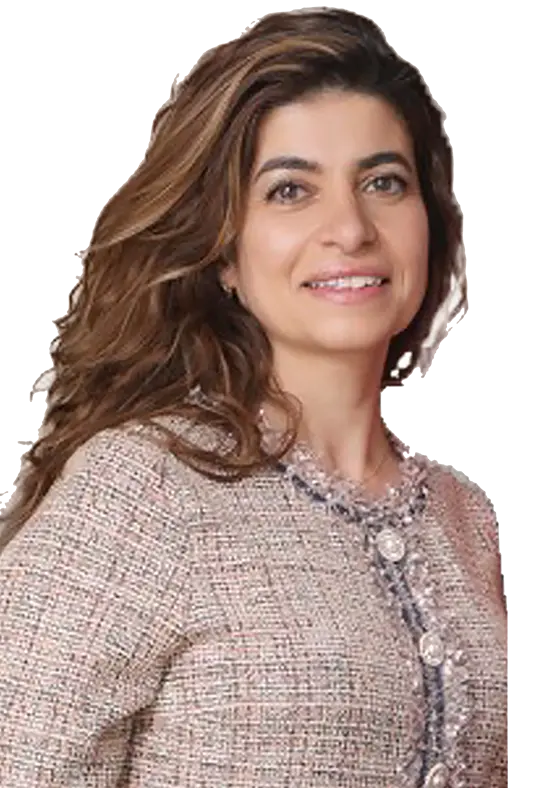
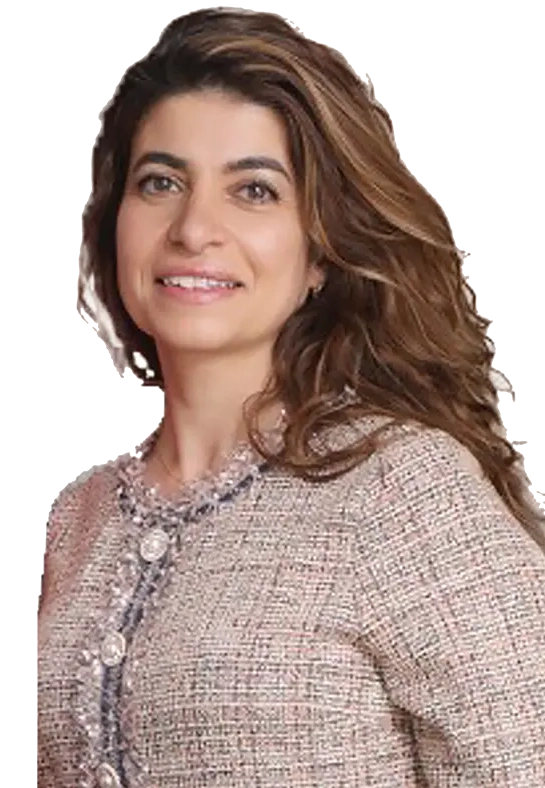
Flipped Hiba and Tarek's images, increased the gradient on the bottom of their images, and moved the meet the founders section into a component of its own

diff --git a/src/pages/About.jsx b/src/pages/About.jsx
@@ -13,7 +13,7 @@ import ValuesVideo from '../assets/video/mission-vision-values/values.mp4';
 import ValuesImg from '../assets/img/mission-vision-values/values.webp';
 import PerformanceImg from '../assets/img/about/para-2.webp';
 import Logo from '../assets/img/logo.webp';
-import { teamData } from '../data/teamData';
+import MeetTheFounders from '../components/sections/MeetTheFounders';
 
 const About = () => {
   // Preload critical images for better LCP
@@ -112,6 +112,8 @@ const About = () => {
         backgroundImage={PhilosophyBg}
       />
 
+      <MeetTheFounders />
+
       <AboutContent
         // title="Driving Purpose Forward"
         title="Mission"
@@ -171,124 +173,6 @@ const About = () => {
         flipped={false}
         sectionId="values"
       />
-
-      {/* Meet the Founders Section */}
-      <section className="pt-20 px-0" id="meet">
-        <div className="max-w-[90%] w-full mx-auto">
-          <div className="text-center mb-16">
-            <h2 className="text-6xl font-bold text-primary dark:text-neutral mb-4">
-              Meet the Founders
-            </h2>
-          </div>
-
-          {/* Team Members */}
-          {teamData.map((member, index) => (
-            <div
-              key={member.id}
-              className={`flex flex-row items-center gap-10 px-4 mx-auto pt-10 ${
-                index % 2 !== 0 ? 'p-0' : 'pt-20'
-              } ${
-                index % 2 === 0 ? ' bg-white mb-16 p-4' : 'bg-white'
-              } rounded-2xl `}
-            >
-              {/* Text Content - Position changes based on flipped property */}
-              <div
-                className={`flex flex-col w-1/2 ${
-                  member.flipped ? 'order-2' : 'order-1'
-                }`}
-              >
-                <h3 className="text-5xl font-bold font-poppins capitalize text-secondary dark:text-neutral mb-6">
-                  {member.subtitle}
-                </h3>
-                <h1 className="text-xl font-normal text-primary font-sans dark:text-neutral mb-6">
-                  {Array.isArray(member.description) &&
-                    member.description.map((paragraph, index) => (
-                      <p key={index} className={index === 0 ? '' : 'mt-3'}>
-                        {paragraph}
-                      </p>
-                    ))}
-
-                  {/* Name and role */}
-                  <p className="mt-6">— {member.name}</p>
-                  {Array.isArray(member.role) ? (
-                    member.role.map((role, idx) => <p key={idx}>{role}</p>)
-                  ) : (
-                    <p>{member.role}</p>
-                  )}
-                </h1>
-              </div>
-
-              {/* Image Section - Position changes based on flipped property */}
-              <div
-                className={`w-1/2 ${member.flipped ? 'order-1' : 'order-2'}`}
-              >
-                <div className="relative h-fit overflow-hidden rounded-lg flex justify-center items-center">
-                  <img
-                    src={member.image}
-                    alt={member.name}
-                    className="w-2/3 object-cover"
-                    style={{
-                      filter: 'blur(1px)',
-                      maskImage:
-                        'radial-gradient(ellipse 70% 70% at center, black 40%, transparent 70%)',
-                      WebkitMaskImage:
-                        'radial-gradient(ellipse 80% 80% at center, black 60%, transparent 70%)',
-                    }}
-                  />
-                  {/* Social Media Buttons */}
-                  <div
-                    className={`absolute top-1/2 transform -translate-y-[0%] space-y-3 ${
-                      member.flipped ? 'left-[10%]' : 'right-0 -translate-x-1/2'
-                    }`}
-                  >
-                    {/* Instagram Button */}
-                    <div className="w-36 h-12 bg-gradient-to-br from-purple-500 to-pink-500 rounded-lg flex items-center justify-start cursor-pointer hover:scale-105 transition-transform shadow-lg px-4">
-                      <svg
-                        className="w-6 h-6 text-white mr-3"
-                        fill="currentColor"
-                        viewBox="0 0 24 24"
-                      >
-                        <path d="M12 2.163c3.204 0 3.584.012 4.85.07 3.252.148 4.771 1.691 4.919 4.919.058 1.265.069 1.645.069 4.849 0 3.205-.012 3.584-.069 4.849-.149 3.225-1.664 4.771-4.919 4.919-1.266.058-1.644.07-4.85.07-3.204 0-3.584-.012-4.849-.07-3.26-.149-4.771-1.699-4.919-4.92-.058-1.265-.07-1.644-.07-4.849 0-3.204.013-3.583.07-4.849.149-3.227 1.664-4.771 4.919-4.919 1.266-.057 1.645-.069 4.849-.069zm0-2.163c-3.259 0-3.667.014-4.947.072-4.358.2-6.78 2.618-6.98 6.98-.059 1.281-.073 1.689-.073 4.948 0 3.259.014 3.668.072 4.948.2 4.358 2.618 6.78 6.98 6.98 1.281.058 1.689.072 4.948.072 3.259 0 3.668-.014 4.948-.072 4.354-.2 6.782-2.618 6.979-6.98.059-1.28.073-1.689.073-4.948 0-3.259-.014-3.667-.072-4.947-.196-4.354-2.617-6.78-6.979-6.98-1.281-.059-1.69-.073-4.949-.073zm0 5.838c-3.403 0-6.162 2.759-6.162 6.162s2.759 6.163 6.162 6.163 6.162-2.759 6.162-6.163c0-3.403-2.759-6.162-6.162-6.162zm0 10.162c-2.209 0-4-1.79-4-4 0-2.209 1.791-4 4-4s4 1.791 4 4c0 2.21-1.791 4-4 4zm6.406-11.845c-.796 0-1.441.645-1.441 1.44s.645 1.44 1.441 1.44c.795 0 1.439-.645 1.439-1.44s-.644-1.44-1.439-1.44z" />
-                      </svg>
-                      <span className="text-white font-semibold text-sm">
-                        {member.socialMedia.instagram}
-                      </span>
-                    </div>
-
-                    {/* Facebook Button */}
-                    <div className="w-36 h-12 bg-blue-600 rounded-lg flex items-center justify-start cursor-pointer hover:scale-105 transition-transform shadow-lg px-4">
-                      <svg
-                        className="w-6 h-6 text-white mr-3"
-                        fill="currentColor"
-                        viewBox="0 0 24 24"
-                      >
-                        <path d="M24 12.073c0-6.627-5.373-12-12-12s-12 5.373-12 12c0 5.99 4.388 10.954 10.125 11.854v-8.385H7.078v-3.47h3.047V9.43c0-3.007 1.792-4.669 4.533-4.669 1.312 0 2.686.235 2.686.235v2.953H15.83c-1.491 0-1.956.925-1.956 1.874v2.25h3.328l-.532 3.47h-2.796v8.385C19.612 23.027 24 18.062 24 12.073z" />
-                      </svg>
-                      <span className="text-white font-semibold text-sm">
-                        {member.socialMedia.facebook}
-                      </span>
-                    </div>
-
-                    {/* LinkedIn Button */}
-                    <div className="w-36 h-12 bg-blue-700 rounded-lg flex items-center justify-start cursor-pointer hover:scale-105 transition-transform shadow-lg px-4">
-                      <svg
-                        className="w-6 h-6 text-white mr-3"
-                        fill="currentColor"
-                        viewBox="0 0 24 24"
-                      >
-                        <path d="M20.447 20.452h-3.554v-5.569c0-1.328-.027-3.047-1.032-3.047-1.032 0-1.26 1.317-1.26 3.031v5.585h-3.554v-11h3.414v1.527h.046c.5-.9 1.699-1.854 3.499-1.854 3.757 0 4.445 2.19 4.445 5.47v6.286zM5.337 7.433c-1.144 0-2.063-.926-2.063-2.065 0-1.138.92-2.063 2.063-2.063 1.14 0 2.064.925 2.064 2.063 0 1.139-.925 2.065-2.064 2.065zm1.782 13.019H3.555V9h3.564v11.452zM22.225 0H1.771C.792 0 0 .774 0 1.729v20.542C0 23.227.792 24 1.771 24h20.451C23.2 24 24 23.227 24 22.271V1.729C24 .774 23.2 0 22.222 0h.003z" />
-                      </svg>
-                      <span className="text-white font-semibold text-sm">
-                        {member.socialMedia.linkedin}
-                      </span>
-                    </div>
-                  </div>
-                </div>
-              </div>
-            </div>
-          ))}
-        </div>
-      </section>
 
       {/* Call to Action Section */}
       <div className="w-full px-4 text-center py-20">

diff --git a/src/components/sections/MeetTheFounders.jsx b/src/components/sections/MeetTheFounders.jsx
@@ -1,0 +1,123 @@
+import { teamData } from '../../data/teamData';
+
+const MeetTheFounders = () => {
+  return (
+    <section className="pt-20 px-0" id="meet">
+      <div className="max-w-[90%] w-full mx-auto">
+        <div className="text-center mb-16">
+          <h2 className="text-6xl font-bold text-primary dark:text-neutral mb-4">
+            Meet the Founders
+          </h2>
+        </div>
+
+        {/* Team Members */}
+        {teamData.map((member, index) => (
+          <div
+            key={member.id}
+            className={`flex flex-row items-center gap-10 px-4 mx-auto pt-10 ${
+              index % 2 !== 0 ? 'p-0' : 'pt-20'
+            } ${
+              index % 2 === 0 ? ' bg-white mb-16 p-4' : 'bg-white'
+            } rounded-2xl `}
+          >
+            {/* Text Content - Position changes based on flipped property */}
+            <div
+              className={`flex flex-col w-1/2 ${
+                member.flipped ? 'order-2' : 'order-1'
+              }`}
+            >
+              <h3 className="text-5xl font-bold font-poppins capitalize text-secondary dark:text-neutral mb-6">
+                {member.subtitle}
+              </h3>
+              <h1 className="text-xl font-normal text-primary font-sans dark:text-neutral mb-6">
+                {Array.isArray(member.description) &&
+                  member.description.map((paragraph, index) => (
+                    <p key={index} className={index === 0 ? '' : 'mt-3'}>
+                      {paragraph}
+                    </p>
+                  ))}
+
+                {/* Name and role */}
+                <p className="mt-6">— {member.name}</p>
+                {Array.isArray(member.role) ? (
+                  member.role.map((role, idx) => <p key={idx}>{role}</p>)
+                ) : (
+                  <p>{member.role}</p>
+                )}
+              </h1>
+            </div>
+
+            {/* Image Section - Position changes based on flipped property */}
+            <div className={`w-1/2 ${member.flipped ? 'order-1' : 'order-2'}`}>
+              <div className="relative h-fit overflow-hidden rounded-lg flex justify-center items-center">
+                <img
+                  src={member.image}
+                  alt={member.name}
+                  className="w-2/3 object-cover"
+                  style={{
+                    WebkitMaskImage: `
+                      radial-gradient(ellipse 80% 80% at center, black 60%, transparent 70%),
+                      linear-gradient(to bottom, black 90%, transparent 100%)
+                    `,
+                    WebkitMaskComposite: 'destination-in', // keeps the intersection
+                    maskComposite: 'intersect', // for standard syntax
+                  }}
+                />
+                {/* Social Media Buttons */}
+                <div
+                  className={`absolute top-1/2 transform -translate-y-[0%] space-y-3 ${
+                    member.flipped ? 'left-[10%]' : 'right-0 -translate-x-1/2'
+                  }`}
+                >
+                  {/* Instagram Button */}
+                  <div className="w-36 h-12 bg-gradient-to-br from-purple-500 to-pink-500 rounded-lg flex items-center justify-start cursor-pointer hover:scale-105 transition-transform shadow-lg px-4">
+                    <svg
+                      className="w-6 h-6 text-white mr-3"
+                      fill="currentColor"
+                      viewBox="0 0 24 24"
+                    >
+                      <path d="M12 2.163c3.204 0 3.584.012 4.85.07 3.252.148 4.771 1.691 4.919 4.919.058 1.265.069 1.645.069 4.849 0 3.205-.012 3.584-.069 4.849-.149 3.225-1.664 4.771-4.919 4.919-1.266.058-1.644.07-4.85.07-3.204 0-3.584-.012-4.849-.07-3.26-.149-4.771-1.699-4.919-4.92-.058-1.265-.07-1.644-.07-4.849 0-3.204.013-3.583.07-4.849.149-3.227 1.664-4.771 4.919-4.919 1.266-.057 1.645-.069 4.849-.069zm0-2.163c-3.259 0-3.667.014-4.947.072-4.358.2-6.78 2.618-6.98 6.98-.059 1.281-.073 1.689-.073 4.948 0 3.259.014 3.668.072 4.948.2 4.358 2.618 6.78 6.98 6.98 1.281.058 1.689.072 4.948.072 3.259 0 3.668-.014 4.948-.072 4.354-.2 6.782-2.618 6.979-6.98.059-1.28.073-1.689.073-4.948 0-3.259-.014-3.667-.072-4.947-.196-4.354-2.617-6.78-6.979-6.98-1.281-.059-1.69-.073-4.949-.073zm0 5.838c-3.403 0-6.162 2.759-6.162 6.162s2.759 6.163 6.162 6.163 6.162-2.759 6.162-6.163c0-3.403-2.759-6.162-6.162-6.162zm0 10.162c-2.209 0-4-1.79-4-4 0-2.209 1.791-4 4-4s4 1.791 4 4c0 2.21-1.791 4-4 4zm6.406-11.845c-.796 0-1.441.645-1.441 1.44s.645 1.44 1.441 1.44c.795 0 1.439-.645 1.439-1.44s-.644-1.44-1.439-1.44z" />
+                    </svg>
+                    <span className="text-white font-semibold text-sm">
+                      {member.socialMedia.instagram}
+                    </span>
+                  </div>
+
+                  {/* Facebook Button */}
+                  <div className="w-36 h-12 bg-blue-600 rounded-lg flex items-center justify-start cursor-pointer hover:scale-105 transition-transform shadow-lg px-4">
+                    <svg
+                      className="w-6 h-6 text-white mr-3"
+                      fill="currentColor"
+                      viewBox="0 0 24 24"
+                    >
+                      <path d="M24 12.073c0-6.627-5.373-12-12-12s-12 5.373-12 12c0 5.99 4.388 10.954 10.125 11.854v-8.385H7.078v-3.47h3.047V9.43c0-3.007 1.792-4.669 4.533-4.669 1.312 0 2.686.235 2.686.235v2.953H15.83c-1.491 0-1.956.925-1.956 1.874v2.25h3.328l-.532 3.47h-2.796v8.385C19.612 23.027 24 18.062 24 12.073z" />
+                    </svg>
+                    <span className="text-white font-semibold text-sm">
+                      {member.socialMedia.facebook}
+                    </span>
+                  </div>
+
+                  {/* LinkedIn Button */}
+                  <div className="w-36 h-12 bg-blue-700 rounded-lg flex items-center justify-start cursor-pointer hover:scale-105 transition-transform shadow-lg px-4">
+                    <svg
+                      className="w-6 h-6 text-white mr-3"
+                      fill="currentColor"
+                      viewBox="0 0 24 24"
+                    >
+                      <path d="M20.447 20.452h-3.554v-5.569c0-1.328-.027-3.047-1.032-3.047-1.032 0-1.26 1.317-1.26 3.031v5.585h-3.554v-11h3.414v1.527h.046c.5-.9 1.699-1.854 3.499-1.854 3.757 0 4.445 2.19 4.445 5.47v6.286zM5.337 7.433c-1.144 0-2.063-.926-2.063-2.065 0-1.138.92-2.063 2.063-2.063 1.14 0 2.064.925 2.064 2.063 0 1.139-.925 2.065-2.064 2.065zm1.782 13.019H3.555V9h3.564v11.452zM22.225 0H1.771C.792 0 0 .774 0 1.729v20.542C0 23.227.792 24 1.771 24h20.451C23.2 24 24 23.227 24 22.271V1.729C24 .774 23.2 0 22.222 0h.003z" />
+                    </svg>
+                    <span className="text-white font-semibold text-sm">
+                      {member.socialMedia.linkedin}
+                    </span>
+                  </div>
+                </div>
+              </div>
+            </div>
+          </div>
+        ))}
+      </div>
+    </section>
+  );
+};
+
+export default MeetTheFounders;
